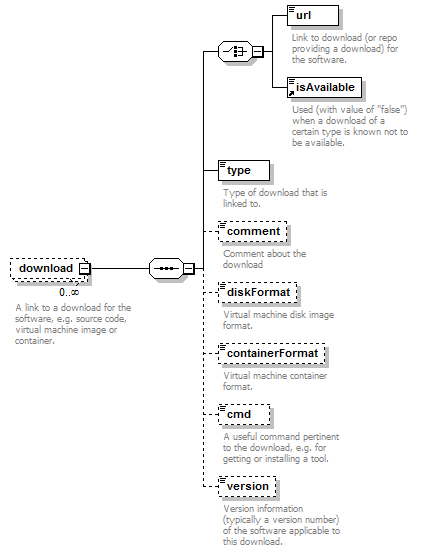
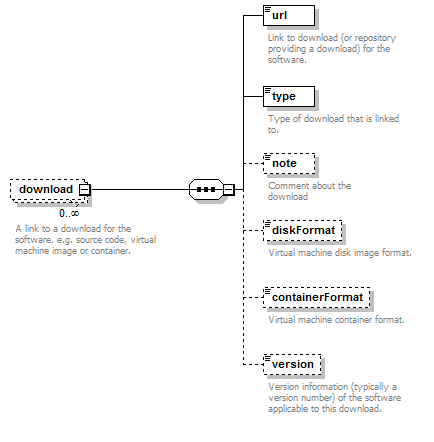
misc updates and additions for 3.0.0

Changed region(s): [[0.0309, 0.0, 0.9881, 1.0]]

diff --git a/biotoolsschema_elements.rst b/biotoolsschema_elements.rst
@@ -156,12 +156,11 @@ Download group
 
    "url", "Link to download (or repo providing a download) for the software.", "URL", "1 only"
    "type", "Type of download that is linked to.", "enum (see `docs <http://biotools.readthedocs.io/en/latest/curators_guide.html#download-type>`__)", "1 only"
-   "comment", "Comment about the download.", "xs:token (restriction)", "0 or 1"
+   "note", "Comment about the download.", "xs:token (restriction)", "0 or 1"
    "diskFormat", "Virtual machine image disk format.", "enum (see `docs <https://github.com/bio-tools/biotoolsSchema/tree/master/stable/docs>`__)", "0 or 1"
    "containerFormat", "Virtual machine container format.", "enum (see `docs <https://github.com/bio-tools/biotoolsSchema/tree/master/stable/docs>`__)", "0 or 1"
-   "cmd", "A useful command pertinent to the download, e.g. for getting or installing a tool.", "xs:token (restriction)", "0 or 1"
    "version", "Version information (typically a version number) of the software applicable to this download.", "xs:token (restriction)", "0 or 1"
-   "isAvailable", "Used (with value of 'Not available') when a download of a certain type is known not to be available.", "enum ('Not available')", "0 or 1"
+
 
 .. note::
    See the `Curators Guide <http://biotools.readthedocs.io/en/latest/curators_guide.html#download-group>`__.
@@ -178,8 +177,7 @@ Documentation group
 	    
    "url", "Link to documentation on the web for the tool.", "URL", "1 only"
    "type", "Type of documentation that is linked to.", "enum (see `docs <http://biotools.readthedocs.io/en/latest/curators_guide.html#id60>`__)", "1 only"
-   "comment", "Comment about the documentation.", "xs:token (restriction)", "0 or more"
-   "isAvailable", "Used (with value of 'Not available') when documentation of a certain type is known not to be available.", "enum ('Not available')", "0 or 1"
+   "note", "Comment about the documentation.", "xs:token (restriction)", "0 or more"
 
 .. note::
    See the `Curators Guide <http://biotools.readthedocs.io/en/latest/curators_guide.html#documentation-group>`__.
@@ -199,7 +197,6 @@ Publications group
    "doi", "Digital Object Identifier.", "xs:token (restriction)", "1 only"
    "type", "Type of publication.", "enum (see `docs <http://biotools.readthedocs.io/en/latest/curators_guide.html#publication-type>`__)", "0 or 1"
    "version", "Version information (typically a version number) of the software applicable to this publication.", "xs:token (restriction)", "0 or 1"
-   "isAvailable", "Used (with value of 'Not available') when a publication is known not to be available.", "enum ('Not available')", "0 or 1"
 
 .. note::
    See the `Curators Guide <http://biotools.readthedocs.io/en/latest/curators_guide.html#publications-group>`__.
@@ -213,25 +210,20 @@ Credits group
 .. csv-table::
    :header: "Element", "Description", "Type", "Cardinality"
    :widths: 25, 50, 50, 100
-	    
+
+   "ELIXIRPlatform", "Name of the ELIXIR Platform that is credited.", "enum (see `docs <http://biotools.readthedocs.io/en/latest/curators_guide.html#elixir-platform>`__)", "0 or 1"
+   "ELIXIRNode", "Name of the ELIXIR Node that is credited.", "enum (see `docs <http://biotools.readthedocs.io/en/latest/curators_guide.html#elixir-node>`__)", "0 or 1"
    "name", "Name of the entity that is credited.", "xs:token (restriction)", "1 only"
-   "orcidId", "Unique identifier (ORCID iD) of a person that is credited.", "xs:token (restriction)", "0 or 1"
-   "gridId", "Unique identifier (GRID ID) of an organisation that is credited.", "xs:token (restriction)", "0 or 1"
    "email", "Email address.", "email address", "0 or 1"
    "url", "URL, e.g. homepage of an institute.", "URL", "0 or 1"
+   "orcidid", "Unique identifier (ORCID iD) of a person that is credited.", "xs:token (restriction)", "0 or 1"
    "tel", "Telephone number.", "xs:token (restriction)", "0 or 1"
    "typeEntity", "Type of entity that is credited.", "enum (see `docs <http://biotools.readthedocs.io/en/latest/curators_guide.html#entity-type>`__)", "0 or 1"
    "typeRole", "Role performed by entity that is credited.", "enum (see `docs <http://biotools.readthedocs.io/en/latest/curators_guide.html#role>`__)", "0 or more"
-   "comment", "A comment about the credit.", "xs:token (restriction)", "0 or 1"
+   "note", "A comment about the credit.", "xs:token (restriction)", "0 or 1"
 
 .. note::
    See the `Curators Guide <http://biotools.readthedocs.io/en/latest/curators_guide.html#credits-group>`__.
    
-ELIXIR information
-^^^^^^^^^^^^^^^^^^
-*Information for ELIXIR internal purposes, maintained by ELIXIR Hub.*
-
-See the `GitHub docs <https://github.com/bio-tools/biotoolsSchema/tree/master/stable/docs>`__.
-
 
 

diff --git a/controlled_vocabularies.rst b/controlled_vocabularies.rst
@@ -21,6 +21,7 @@ biotoolsSchema defines 15 controlled vocabularies - as standarised enumerations 
    "publication type ", "Type of publication, e.g. 'Review'.", "`link <http://biotools.readthedocs.io/en/latest/curators_guide.html#publication-type>`__"
    "entity type ", "Types of entities that may be credited, e.g. 'Person'.", "`link <http://biotools.readthedocs.io/en/latest/curators_guide.html#entity-type>`__"
    "entity role ", "Roles that may be assigned to creditable entities, e.g. 'Developer'.", "`link <http://biotools.readthedocs.io/en/latest/curators_guide.html#role>`__"
+   "ID type ", "Type of tool identifier, e.g. 'rrid'.", "`link <http://biotools.readthedocs.io/en/latest/curators_guide.html#other-ids>`__"
 
 
 
@@ -262,3 +263,61 @@ Entity role
    "Primary contact", "The primary point of contact for the software."
 
 
+ID types
+--------
+*Type of tool identifier, e.g. "rrid"*
+
+.. csv-table::
+   :header: "Role", "Description"
+   :widths: 25, 100
+
+   "doi", "Digital Object Identifier of the software assigned (typically) by the software developer or service provider."
+   "rrid", "Research Resource Identifier as used by the NIH-supported Resource Identification Portal (https://scicrunch.org/resources)."
+   "cpe", "Common Platform Enumeration (CPE) identifier as listed in the CPE dictionary (https://cpe.mitre.org/dictionary/)."
+   "biotoolsCURIE", "bio.tools CURIE (secondary identifier)."      
+
+ELIXIR Platform
+---------------
+*Name of the ELIXIR Platform that is credited, e.g. "Tools"*
+
+.. csv-table::
+   :header: "ELIXIR Platform", "Description"
+   :widths: 25, 100
+	    
+   "Data", "ELIXIR Data Platform"
+   "Tools", "ELIXIR Tools Platform"
+   "Compute", "ELIXIR Compute Platform"
+   "Interoperability", "ELIXIR Interoperability Platform"
+   "Training", "ELIXIR Training Platform"
+
+
+ELIXIR Node
+-----------
+*Name of the ELIXIR Node that is credited, e.g. "Norway"*
+
+.. csv-table::
+   :header: "ELIXIR Node"
+   :widths: 25
+	    
+   "Belgium"
+   "Czech Republic"
+   "Denmark"
+   "EMBL"
+   "Estonia"
+   "Finland"
+   "France"
+   "Germany"
+   "Greece"
+   "Hungary"
+   "Ireland"
+   "Israel"
+   "Italy"
+   "Luxembourg"
+   "Netherlands"
+   "Norway"
+   "Portugal"
+   "Slovenia"
+   "Spain"
+   "Sweden"
+   "Switzerland"
+   "UK"

diff --git a/keep_for_later.rst b/keep_for_later.rst
@@ -17,3 +17,12 @@ API spec group
 See the `GitHub docs <https://github.com/bio-tools/biotoolsSchema/tree/master/stable/docs>`__.
 
    "isAvailable", "Used (with value of 'Not available') when a link of a certain type is known not to be available.", "enum ('Not available')", "0 or 1"
+   "isAvailable", "Used (with value of 'Not available') when a download of a certain type is known not to be available.", "enum ('Not available')", "0 or 1"
+
+"cmd", "A useful command pertinent to the download, e.g. for getting or installing a tool.", "xs:token (restriction)", "0 or 1"
+
+"isAvailable", "Used (with value of 'Not available') when documentation of a certain type is known not to be available.", "enum ('Not available')", "0 or 1"
+
+   "isAvailable", "Used (with value of 'Not available') when a publication is known not to be available.", "enum ('Not available')", "0 or 1"
+
+   

diff --git a/.#keep_for_later.rst b/.#keep_for_later.rst
@@ -1,0 +1,1 @@
+Jon@JON-PC.5976:1526455655
